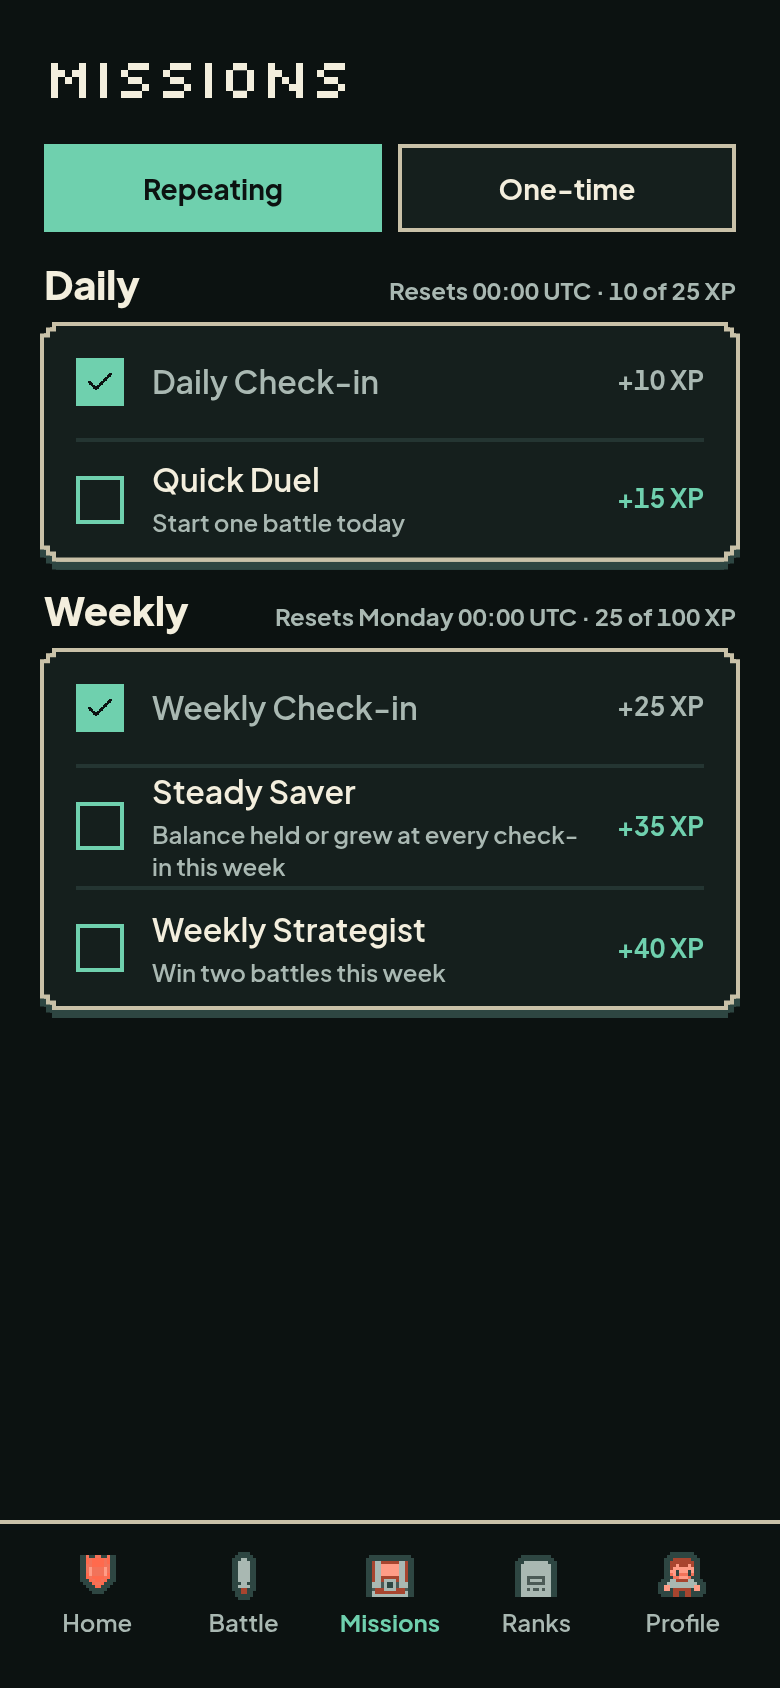
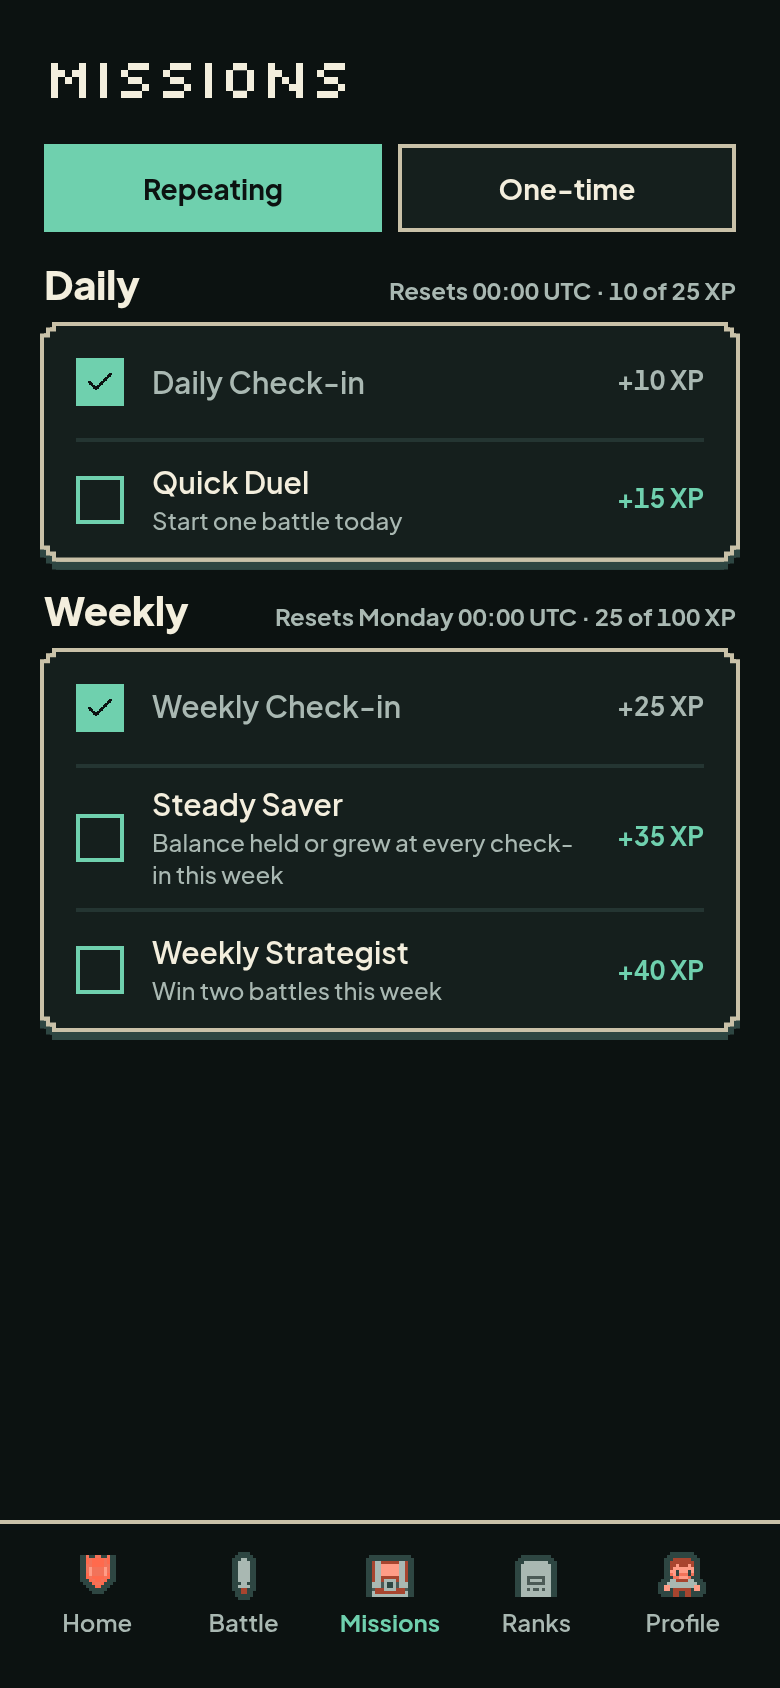
chore: refresh missions renders after the row spacing fix

diff --git a/docs/superpowers/audits/2026-11-05-ui-gap-audit.md b/docs/superpowers/audits/2026-11-05-ui-gap-audit.md
@@ -1158,9 +1158,11 @@ period XP counter. The cap cards are gone.
   `Never expires`. Titles are 20px default text; captions are the new 12px
   `.sv-caption` role.
 - **Rows:** one grouped `PixelPanel` per group; 24px box (mint fill + ground
-  check when done, mint outline when open), label, a 12px description on open
-  rows only, and `+N XP` in mint on open rows or muted on done rows. Done rows
-  are exactly 58px; open rows grow with the description. Rows are status only.
+  check when done, mint outline when open), a 15px/1.35 title, a 12px/500/1.35
+  description on open rows only, and `+N XP` in mint on open rows or muted on
+  done rows. The body column carries 8px vertical padding, so done and one-line
+  rows stay 58px and a two-line description row grows to about 71px with 8px of
+  clearance under the text. Rows are status only.
 - **Counters:** earned = sum of completed `xpReward` in the group, clamped to
   `counters.dailyXpCap` / `weeklyXpCap`. `src/lib/missions-ui.ts` owns
   `earnedXp` and `xpCounter`.
@@ -1178,7 +1180,7 @@ period XP counter. The cap cards are gone.
 
 | Check | Result |
 |---|---|
-| `npm test` | 380 pass, 0 fail (370 before the batch) |
+| `npm test` | 381 pass, 0 fail (370 before the batch) |
 | `npx tsc --noEmit` | clean |
 | `npm run lint` | exit 0, 50 warnings, 0 errors |
 | `npm run build` | exit 0; `/missions` compiles |
@@ -1190,7 +1192,8 @@ period XP counter. The cap cards are gone.
 - Both tabs and both group captions fit on one line: the Weekly caption is
   231px inside a 324px body, so the handoff copy stays intact.
 - `Steady Saver`'s description wraps to two lines at 360 and 390; the row grows
-  and nothing is clipped or truncated.
+  to about 71px with 8px of clearance under the last line. Nothing is clipped
+  or truncated.
 - Done rows stay at 58px; the one-time panel's six rows scroll with the body.
 - Loading centres the three dots in the remaining body; error and empty fit
   without scrolling; the retry button is 56px and left-aligned.
@@ -1204,6 +1207,11 @@ period XP counter. The cap cards are gone.
   and a visually hidden `(completed)`, not by colour alone.
 - **Descriptions on open rows only.** Done rows are scannable at 58px, matching
   the handoff; the explanation is only needed before the mission is earned.
+- **Row type pass.** The first renders showed two-line descriptions ending on
+  the divider. The title dropped from 16px to the handoff's 15px and the body
+  gained 8px vertical padding. The description is already at the 12px floor, so
+  only its weight (600 to 500) and line height (1.4 to 1.35) changed; two-line
+  rows grow to about 71px instead of pressing on the divider.
 - **Reset in the group caption only.** Repeating it per row duplicated
   information and pushed rows to three and four lines.
 - **One grouped panel per group.** One panel per mission (the old screen)

diff --git a/docs/superpowers/renders/missions/review/NOTES.md b/docs/superpowers/renders/missions/review/NOTES.md
@@ -56,6 +56,10 @@ Corrections:
 - Rows are status only. Missions are credited by check-in and battle on the
   server; there is no client write, so the 24px box is not a control and the
   row is not a 44px target.
+- Row type follows the handoff: a 15px/1.35 title and a 12px/500/1.35
+  description. The body column carries 8px vertical padding, so a two-line
+  description row grows to about 71px and its last line clears the divider by
+  8px. Done and one-line rows stay 58px.
 - Done rows are exactly 58px with no description. Open rows grow when the
   description wraps (`Balance held or grew at every check-in this week` is two
   lines at 360/390); nothing is clipped.
